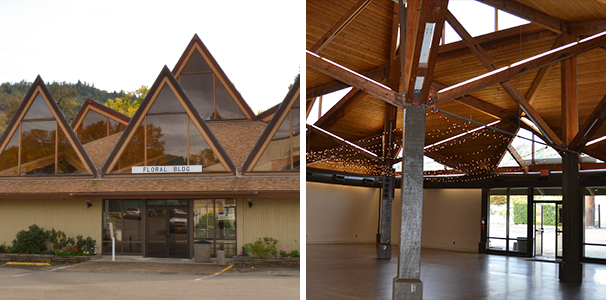
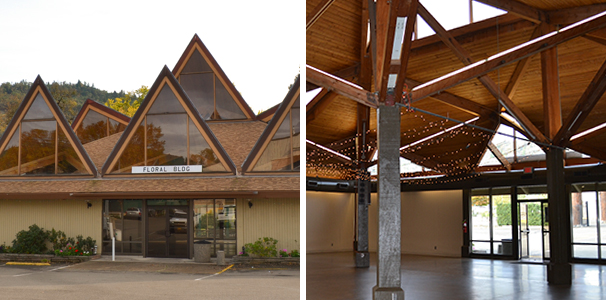
Adds remaining facility photos, Adds links to the Rental Guide

diff --git a/buildings.html b/buildings.html
@@ -98,7 +98,7 @@
 						<h4>Helpful Links</h4>							
 						<ul>
 							<li><p><a href="img/forms/facilities_rates.pdf">Rental Rates</a></p></li>
-							<li><p><a href="#">Facility Guide</a></p></li>
+							<li><p><a href="img/forms/FacilityRentalGuide.pdf">Facility Guide</a></p></li>
 						</ul>
 							
 						<hr>
@@ -123,7 +123,7 @@
 			  		
 			  		<p>The Douglas County Fairgrounds Complex takes pride in the fact that we can accommodate gatherings of any kind, from the most intimate of receptions to huge tradeshows. Over the years, members of this community as well as those from far away have come to the Fairgrounds Complex to hold special events. Not only can we provide your event with top notch events planning assistance, but our on-site catering can provide you with anything from a box lunch to a five star meal.</p>
 			  		<p>Click on facility names for more information. Be sure to check <a href="catering.html"><em>Fairgrounds Professional Catering</em></a> for professional food and beverage service.</p>
-			  		<p>For further detail on our facilities and policies, please review our Facility Guide by <a href="#">clicking here.</a></p>
+			  		<p>For further detail on our facilities and policies, please review our Facility Guide by <a href="img/forms/FacilityRentalGuide.pdf">clicking here.</a></p>
 			  		<p><em>The following are some pertinent details regarding our Facilities. Please call 541 440 4394 for Facility Rental.</em></p>
 			  		
 			  		<dl class="accordion" data-accordion>

diff --git a/arenas.html b/arenas.html
@@ -96,7 +96,7 @@
 						<h4>Helpful Links</h4>
 							<ul>
 								<li><p><a href="img/forms/facilities_rates.pdf">Rental Rates</a></p></li>
-								<li><p><a href="#">Facility Guide</a></p></li>
+								<li><p><a href="img/forms/FacilityRentalGuide.pdf">Facility Guide</a></p></li>
 							</ul>
 						<hr>
 						<h4>Contact Us</h4>
@@ -118,6 +118,7 @@
 					  <dd class="accordion-navigation">
 					    <a href="#panel1"><strong>Arenas</strong></a>
 					    <div id="panel1" class="content active">
+							<img src="img/facilities-arena.jpg" alt="Riding Arena">
 					    	<p>The Fairgrounds have two well-maintained indoor and one outdoor riding arenas, nestled close to the Umpqua River. New Powder River panels are available for Rodeo, Bull Riding, Team Penning usage and other livestock shows.</p>
 							<p>Pavilion Arena 100'x 200' Seats 400+(includes upstairs office)</p>
 							<p>River Arena 104' x 250' Seats 600+							 </p>
@@ -147,6 +148,7 @@
 					  <dd class="accordion-navigation">
 					    <a href="#panel4"><strong>Horse Stalls</strong></a>
 					    <div id="panel4" class="content">
+							<img src="img/facilities-stalls.jpg" alt="Riding Arena">
 					    	<p>The Fairgrounds has 120 permanent stalls complete with bedding.</p>
 							<p>A-Barn 58 Stalls 8' x 12'				  </p>
 							<p>B-Barn Stalls 62 Stalls 12' x 12'		  </p>

diff --git a/rvpark.html b/rvpark.html
@@ -96,7 +96,12 @@
  
 			 <div class="large-4 medium-4 columns sidebar"> 
 				  	<div class="panel">
-
+						<h4>Helpful Links</h4>
+								<ul>
+									<li><p><a href="img/forms/facilities_rates.pdf">Rental Rates</a></p></li>
+									<li><p><a href="img/forms/FacilityRentalGuide.pdf">Facility Guide</a></p></li>
+								</ul>
+						<hr>
 						<h4>Contact Us</h4>
 						<p>If you're interested in renting a site, please email<a href="mailto:clkeith@co.douglas.or.us"> clkeith@co.douglas.or.us</a> or call 541 440-4394.</p>
 				  	</div>

diff --git a/grandstands.html b/grandstands.html
@@ -97,7 +97,7 @@
 						<h4>Helpful Links</h4>
 								<ul>
 									<li><p><a href="img/forms/facilities_rates.pdf">Rental Rates</a></p></li>
-									<li><p><a href="#">Facility Guide</a></p></li>
+									<li><p><a href="img/forms/FacilityRentalGuide.pdf">Facility Guide</a></p></li>
 								</ul>
 						<hr>
 						<h4>Contact Us</h4>
